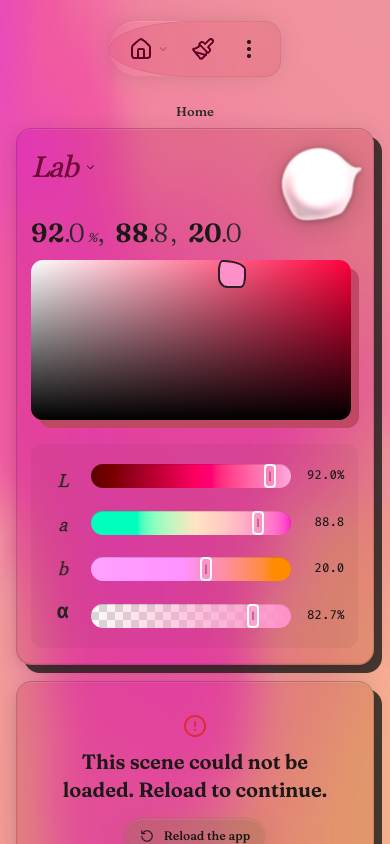
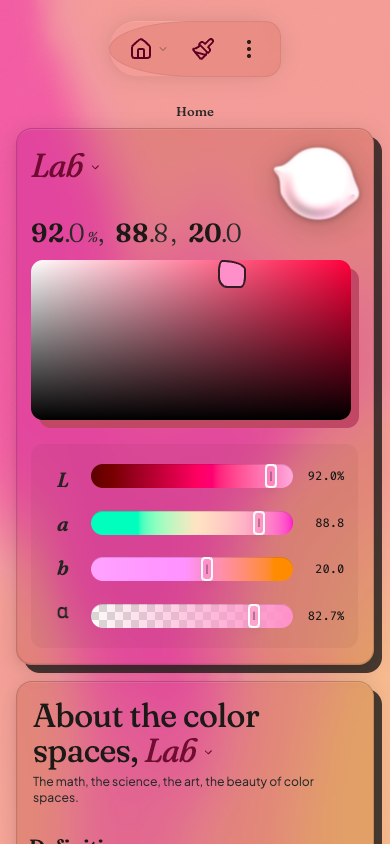
fix(X-DS · value · pass 3 · critic VC3): VC3-01..04 cured at the root
- VC3-01 (high): the :9000 dev server served a page whose deps bound two
  copies of Vue (GlassDock 'missing template', dockEl 'not extensible',
  renderSlot 'ce'), because a second vite (the n-fixtures harness root and
  the e2e webServer) re-optimized the shared node_modules/.vite under it.
  Root: one optimized-deps cache per long-lived server. vite.config.ts's dev
  branch takes cacheDir from VJS_VITE_CACHE_DIR; the e2e webServer sets its
  own (.vite-e2e-<port>) and the harness its own (.vite-harness). The live
  :9000 server was restarted once with a fresh optimize (2026-10-14 12:2x);
  boot re-read 2026-10-15: dock mounts, 0 of the three errors.
- VC3-02: the Mix verb takes glass Button emphasis="primary"; the stale
  'glass 7 declares no variant' comment is deleted. Lighting stays glass's
  (glass-deep / specular track judged under O-87 at the 10.2.0 repin).
- VC3-03: the My Palettes well ('Start a new palette') carries the
  invitation; the library's true-empty trio (owner-ruled t33-audit-08) keeps
  its plate but its statement takes the hint rung (16.4 px / 400 under the
  well's 600 label), so the statement no longer outranks the action.
- VC3-04: the pass-02 capture gate fails and retries a frame while
  main [role=alert] (PaneErrorPlate) stands; picker-390-light re-shot on the
  healthy server and the manifest marks the re-shoot.

Claude-Session: https://claude.ai/code/session_01QkbQV4VgkoQgSoUj2oKZim

diff --git a/playwright.config.ts b/playwright.config.ts
@@ -122,7 +122,12 @@ export default defineConfig({
             // optional reads (`/colors/approved`) fall back to the SPA 200; other
             // reads 404 same-origin (already absorbed by setupEnvNoise). The demo's
             // production default (`api.color.babb.dev`) is unchanged for real builds.
-            env: { VITE_API_URL: E2E_ORIGIN },
+            env: {
+                VITE_API_URL: E2E_ORIGIN,
+                // Its own optimized-deps cache, never the :9000 dev server's
+                // (X-DS VC3-01; vite.config.ts dev branch).
+                VJS_VITE_CACHE_DIR: `${import.meta.dirname}/node_modules/.vite-e2e-${E2E_PORT}`,
+            },
         },
         {
             // S.W3 ORACLE — the BUILT-bundle server for `smoke-perf`. The §6.2

diff --git a/vite.config.ts b/vite.config.ts
@@ -265,6 +265,13 @@ export default defineConfig((mode) => {
         return {
             ...defaultOptions,
             root: "./demo/app/",
+            // One optimized-deps cache per long-lived server. Two vite servers
+            // that share `node_modules/.vite` re-optimize it under each other,
+            // and the survivor then serves a page whose deps bind two copies
+            // of Vue (X-DS VC3-01: GlassDock "missing template", dockEl "not
+            // extensible"). The e2e webServer and the unit-test harness set
+            // their own directory; the :9000 dev server keeps the default.
+            cacheDir: process.env.VJS_VITE_CACHE_DIR || undefined,
             server: {
                 host: true,
             },

diff --git a/demo/test/palettes/n-fixtures/browser.ts b/demo/test/palettes/n-fixtures/browser.ts
@@ -23,6 +23,10 @@ export async function openHarness(viewport = { width: 390, height: 844 }): Promi
         configFile: path.join(REPO, "vite.config.ts"),
         mode: "development",
         root: path.join(import.meta.dirname, "harness"),
+        // Its own optimized-deps cache: the harness root optimizes a smaller
+        // dep set, and writing it into the shared `node_modules/.vite` broke
+        // the live :9000 dev server's boot (X-DS VC3-01).
+        cacheDir: path.join(REPO, "node_modules/.vite-harness"),
         server: { port: 0, host: "127.0.0.1", strictPort: false },
         logLevel: "error",
     });

diff --git a/demo/palettes/PalettesPane.vue b/demo/palettes/PalettesPane.vue
@@ -336,4 +336,12 @@ async function onPublish(palette: Palette) {
     padding-block-start: 0;
     margin-block-start: calc(var(--phi-3) - 0.75rem);
 }
+/* X-DS VC3-03: the well above ("Start a new palette", with its + slot) is the
+ * card's invitation. The library's true-empty plate keeps its owner-ruled trio
+ * (t33-audit-08) but speaks one voice under it: its statement takes the hint
+ * rung, so it never outranks the well's label. */
+.palettes-companion-grid > :deep([role="status"]:not([data-empty-register])) > p.font-display {
+    font-size: var(--type-small);
+    font-weight: 400;
+}
 </style>

diff --git a/demo/workbenches/mix/MixConfigBar.vue b/demo/workbenches/mix/MixConfigBar.vue
@@ -99,10 +99,9 @@ const strategyLabels: Record<LeftoverStrategy, string> = {
             </Select>
         </LabeledField>
 
-        <!-- The page's ONE verb. glass 7 `Button` declares no `variant`, so the
-             deliberate-primary register (S.W5-6 · L6) is an X-W10 intent, not
-             a binding here (X.W7.z2: the inert prop deleted). -->
+        <!-- The page's ONE verb, on glass's primary emphasis. -->
         <Button
+            emphasis="primary"
             :disabled="!canMix"
             class="h-10 gap-2 font-medium font-display"
             @click="emit('mix')"
